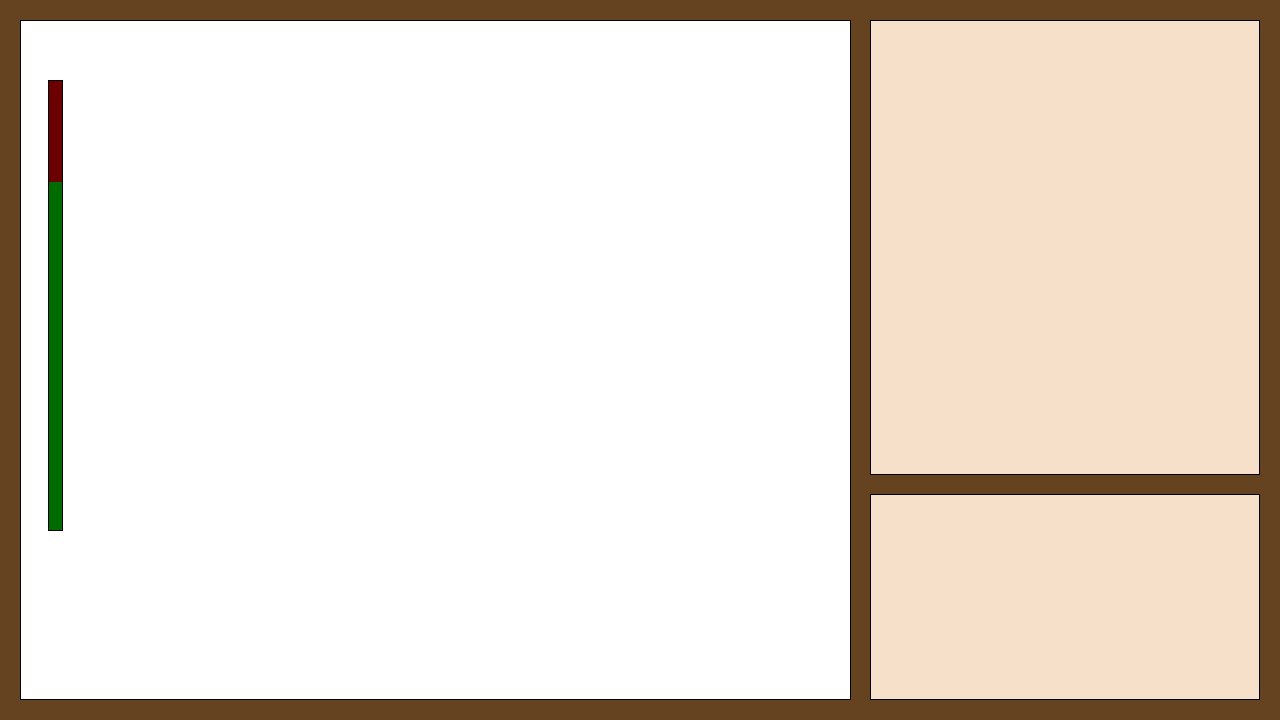
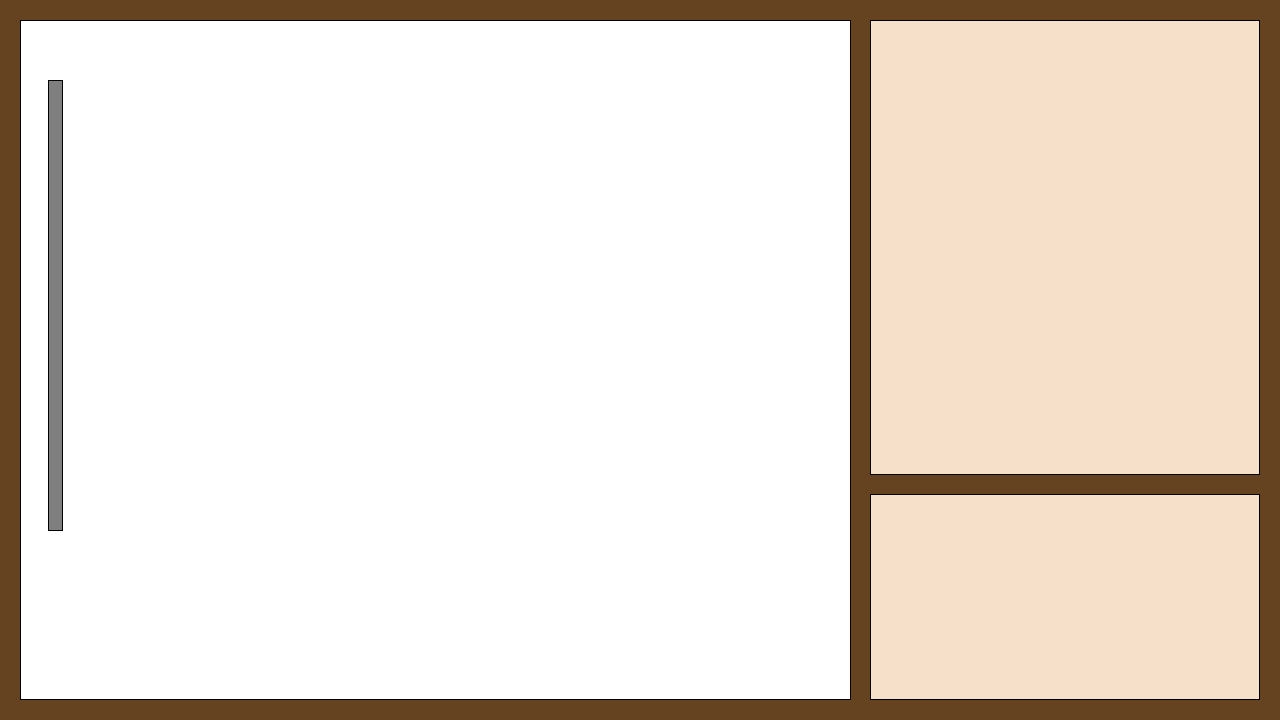
Show HP bars, with sloppy code.

Changed region(s): [[0.0312, 0.0917, 0.0625, 0.7333]]

diff --git a/test/main.c b/test/main.c
@@ -8,6 +8,44 @@
 
 int Current_Time = 0;
 int player_int;
+int player_hp = 100;
+
+int damage_player(int x){
+    bbAIControl* player_AI = bbAIControl_Pool_Lookup(player_int);
+    bbDrawable* drawable = bbDrawable_Pool_Lookup(player_AI->drawables[0]);
+
+    drawable->health = drawable->health - 5;
+    player_hp = drawable->health;
+    if(drawable->health <= 0) {
+        printf("Now you're dead!\n");
+        exit(1);
+    }
+}
+
+sfRectangleShape* Health_Bar;
+
+int init_health(){
+    Health_Bar = sfRectangleShape_create();
+    sfColor dark_red = sfColor_fromRGB(188, 0, 0);
+    sfRectangleShape_setFillColor(Health_Bar, dark_red);
+    sfVector2f position;
+    position.x = 62;
+    position.y = 530;
+    sfRectangleShape_setPosition(Health_Bar, position);
+    position.x = -13;
+    position.y = -449;
+    sfRectangleShape_setSize(Health_Bar, position);
+}
+
+int display_health(){
+    sfVector2f size;
+    size.x = -13;
+    size.y = -449 * player_hp / 100;
+
+    sfRectangleShape_setSize(Health_Bar, size);
+
+    sfRenderWindow_drawRectangleShape(window, Health_Bar, NULL);
+}
 
 int viewpoint_drawable_int; 
 
@@ -184,7 +222,7 @@ int Test_All(void){
     
     bbMapCoords mc;   
     
-    for (int i=0; i<64; i++){
+    for (int i=0; i<128; i++){
     
         float i = rand() % (POINTS_PER_SQUARE * 5);
         float j = rand() % (POINTS_PER_SQUARE * 5);
@@ -213,8 +251,8 @@ int Test_All(void){
     player_int = bbAI_constructor_vtable[PLAYER_20230829](viewpoint);
     bbAIControl* player_AI = bbAIControl_Pool_Lookup(player_int);
     viewpoint_drawable_int = player_AI->drawables[0];
-    
-    
+
+    init_health();
 
 
     sfRenderTexture_drawSprite(viewport, sfSprite_vtable[28], NULL); //viewport background
@@ -255,7 +293,7 @@ int Test_All(void){
         bbDrawable* viewpoint_drawable
              = bbDrawable_Pool_Lookup(viewpoint_drawable_int);
         viewpoint = viewpoint_drawable->location;
-        viewpoint.k *= 0.5;
+        viewpoint.k = viewpoint.k *0.5 + 200;
         
         #ifdef VERBOSE
         printf("Draw to Screen:\n");
@@ -267,6 +305,7 @@ int Test_All(void){
         sfRenderWindow_drawSprite(window, viewport_sprite, &bbViewport_renderer);
         Display_Decal();
         prompt_display();
+        display_health();
         sfRenderWindow_display(window);
         
         #ifdef VERBOSE

diff --git a/AI/AI_Cow.h b/AI/AI_Cow.h
@@ -48,6 +48,7 @@
 
 extern int Current_Time;
 extern int player_int;
+int damage_player(int);
 
 int AI_cow_new(bbMapCoords mc){
 
@@ -189,6 +190,7 @@ int AI_cow_update(bbAIControl* aicontroller){
 
             if (distance < 5*POINTS_PER_TILE) {
                 aicontroller->internal_state = STATE_ATTACKING;
+                aicontroller->attack_centre = player_coords;
                 aicontroller->state_transition = 1;
                 return RETHUNK;
 
@@ -212,7 +214,17 @@ int AI_cow_update(bbAIControl* aicontroller){
                 aicontroller->clock = Current_Time;
                 aicontroller->state_transition = 0;
             }
-            if (Current_Time > aicontroller->clock + 360) {
+
+            if (Current_Time == aicontroller->clock + 160){
+                //Is the player within the effected area?
+                float dist = bbMapCoords_getDistance(player_coords, aicontroller->attack_centre);
+                if (dist < POINTS_PER_TILE * 2) {
+                    damage_player(5);
+                    printf("You got hit\n");
+                }
+            }
+
+            if (Current_Time > aicontroller->clock + 304) {
                 aicontroller->internal_state = STATE_IDLE;
                 aicontroller->state_transition = 1;
                 return RETHUNK;

diff --git a/AI/PLAYER.h b/AI/PLAYER.h
@@ -61,7 +61,11 @@ int PLAYER_new(bbMapCoords mc){
     drawable->avoidance_radius = 32 * POINTS_PER_PIXEL;
     drawable->mass             = 1;
     drawable->speed            = 6;
-    drawable->shape            = AVOIDANCE_CIRCLULAR;  
+    drawable->shape            = AVOIDANCE_CIRCLULAR;
+
+
+    drawable->health     = 100;
+    drawable->max_health = 100;
     //#ifdef DEBUG  
     //printf("New drawable is at the location %d\n", drawable_int );
     //#endif

diff --git a/source/bbDrawable.c b/source/bbDrawable.c
@@ -261,7 +261,7 @@ int bbDrawable_movetowards(int drawable_int, bbMapCoords target_location){
     int j = target_location.j - location.j;
 
     int angle = angles_8_hack(i,j);
-    printf("angle = %d\n", angle);
+    //printf("angle = %d\n", angle);
     drawable->angle[0] = angle;
 
     float distance = sqrt(i*i + j*j);

diff --git a/source/window.c b/source/window.c
@@ -45,6 +45,7 @@ int Window_Init(void){
 #ifdef LIMIT_FRAMERATE
     sfRenderWindow_setFramerateLimit(window, 120);
 #endif
+
     sfColor beige = COLOUR_BEIGE;
     
     sfRenderWindow_clear(window, beige);

diff --git a/source/bbAIControl.c b/source/bbAIControl.c
@@ -53,7 +53,8 @@ typedef struct {
     //bbMapCoords target_location;
     
     //union of structs containing ai data?
-    
+
+    bbMapCoords attack_centre;
 
 
 

diff --git a/headers/bbAIControl.h b/headers/bbAIControl.h
@@ -70,7 +70,7 @@ typedef struct {
     
     //union of structs containing ai data?
     
-
+    bbMapCoords attack_centre;
 
 
 } bbAIControl;
